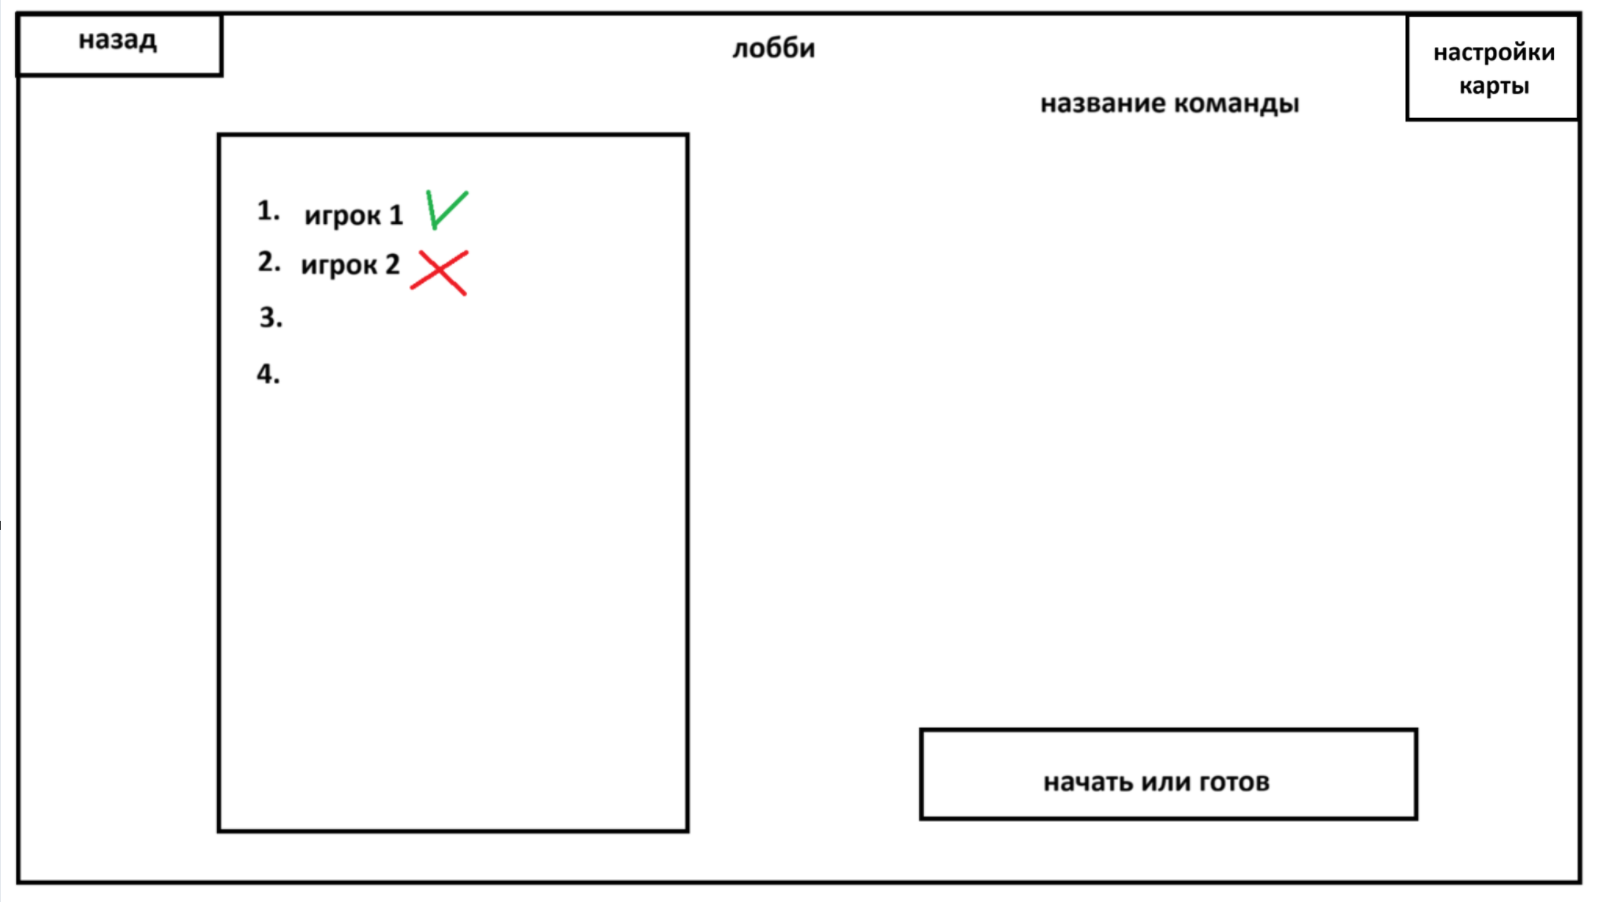
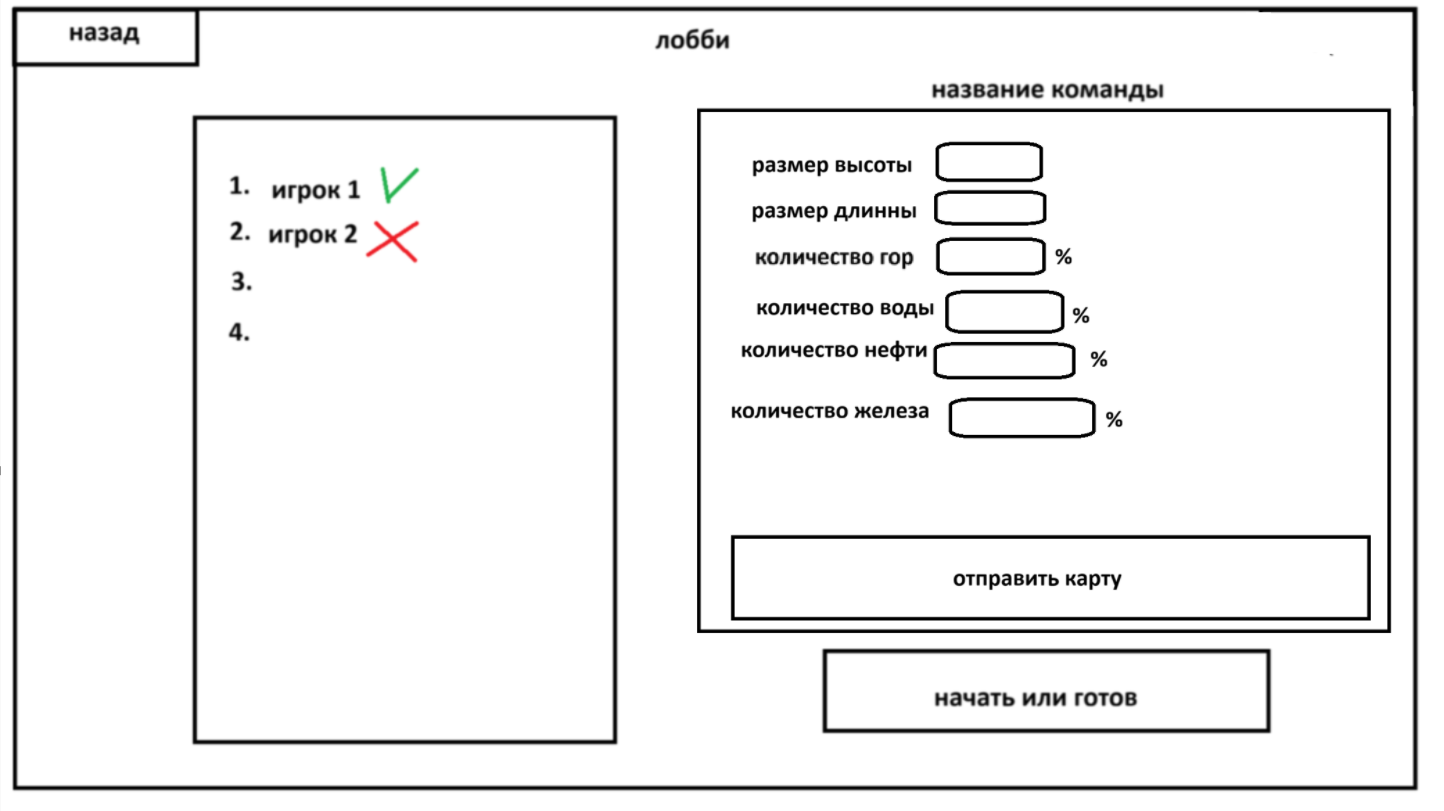
rem

diff --git a/peopleEconomy/analysts/макеты/maket.md b/peopleEconomy/analysts/макеты/maket.md
@@ -9,6 +9,4 @@
 
 ![alt text](image-4.png)
 
-![alt text](image-6.png)
-
 ![alt text](image-5.png)